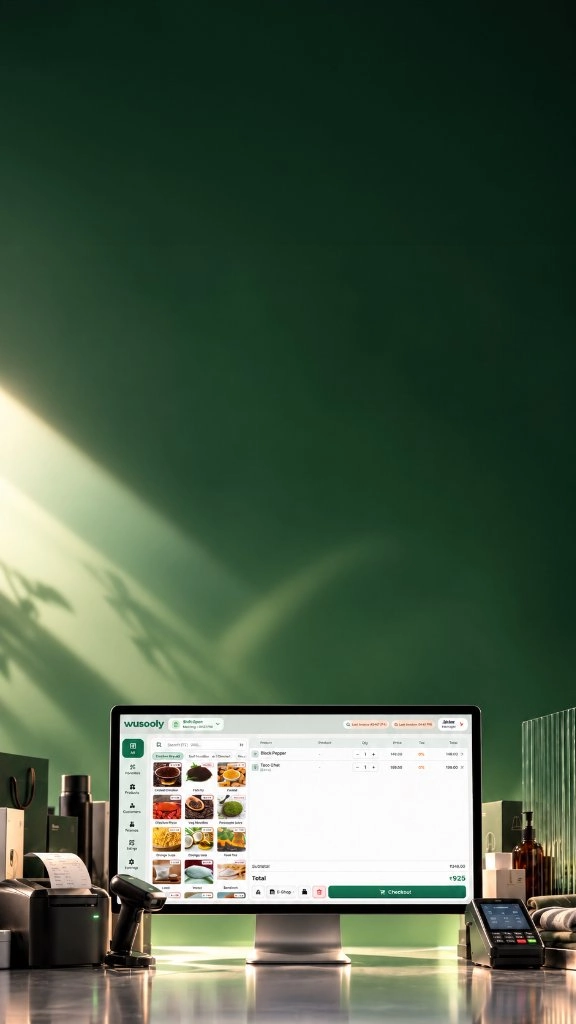
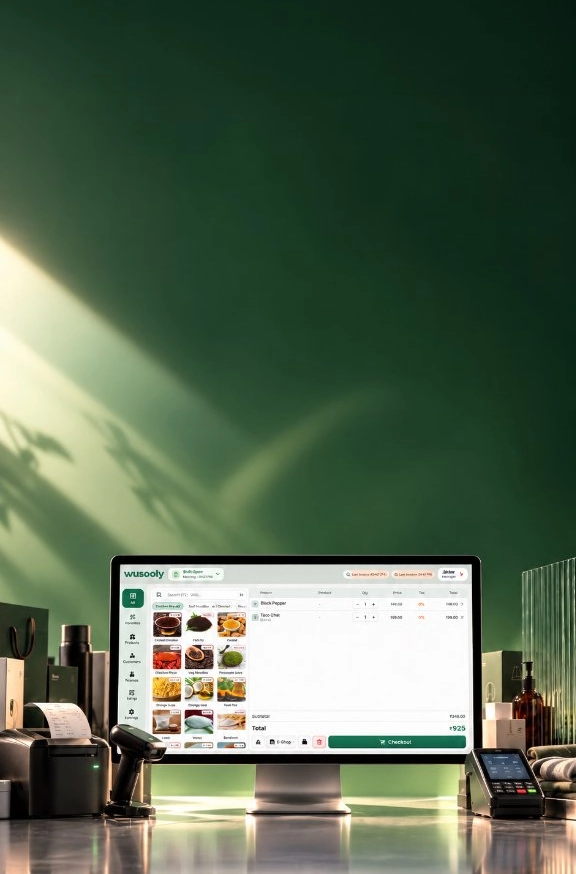
fix(mobile): crop top of mobile hero artwork, tighten vertical spacer, and set live no-cache headers

diff --git a/app/page.js b/app/page.js
@@ -240,7 +240,7 @@ export default function Home() {
               sizes="(max-width: 768px) 1px, 100vw"
             />
             <Image
-              src="/assets/hero-retail-pos-mobile-v3.webp"
+              src="/assets/hero-retail-pos-mobile-v4.webp"
               alt="Wusooly POS display in clean forest-green studio mobile view"
               fill
               priority
@@ -266,7 +266,7 @@ export default function Home() {
               sizes="(max-width: 768px) 1px, 100vw"
             />
             <Image
-              src="/assets/hero-cafe-pos-mobile-v3.webp"
+              src="/assets/hero-cafe-pos-mobile-v4.webp"
               alt="Wusooly Café POS studio setup mobile view"
               fill
               priority

diff --git a/app/page.module.css b/app/page.module.css
@@ -239,6 +239,10 @@
 }
 
 @media (max-width: 768px) {
+  .heroSection {
+    min-height: auto;
+  }
+
   .bgDesktop {
     display: none !important;
   }
@@ -275,7 +279,7 @@
   }
 
   .monitorViewSpacer {
-    min-height: clamp(340px, 48vh, 440px);
+    min-height: clamp(210px, 32vh, 250px);
   }
 }
 
